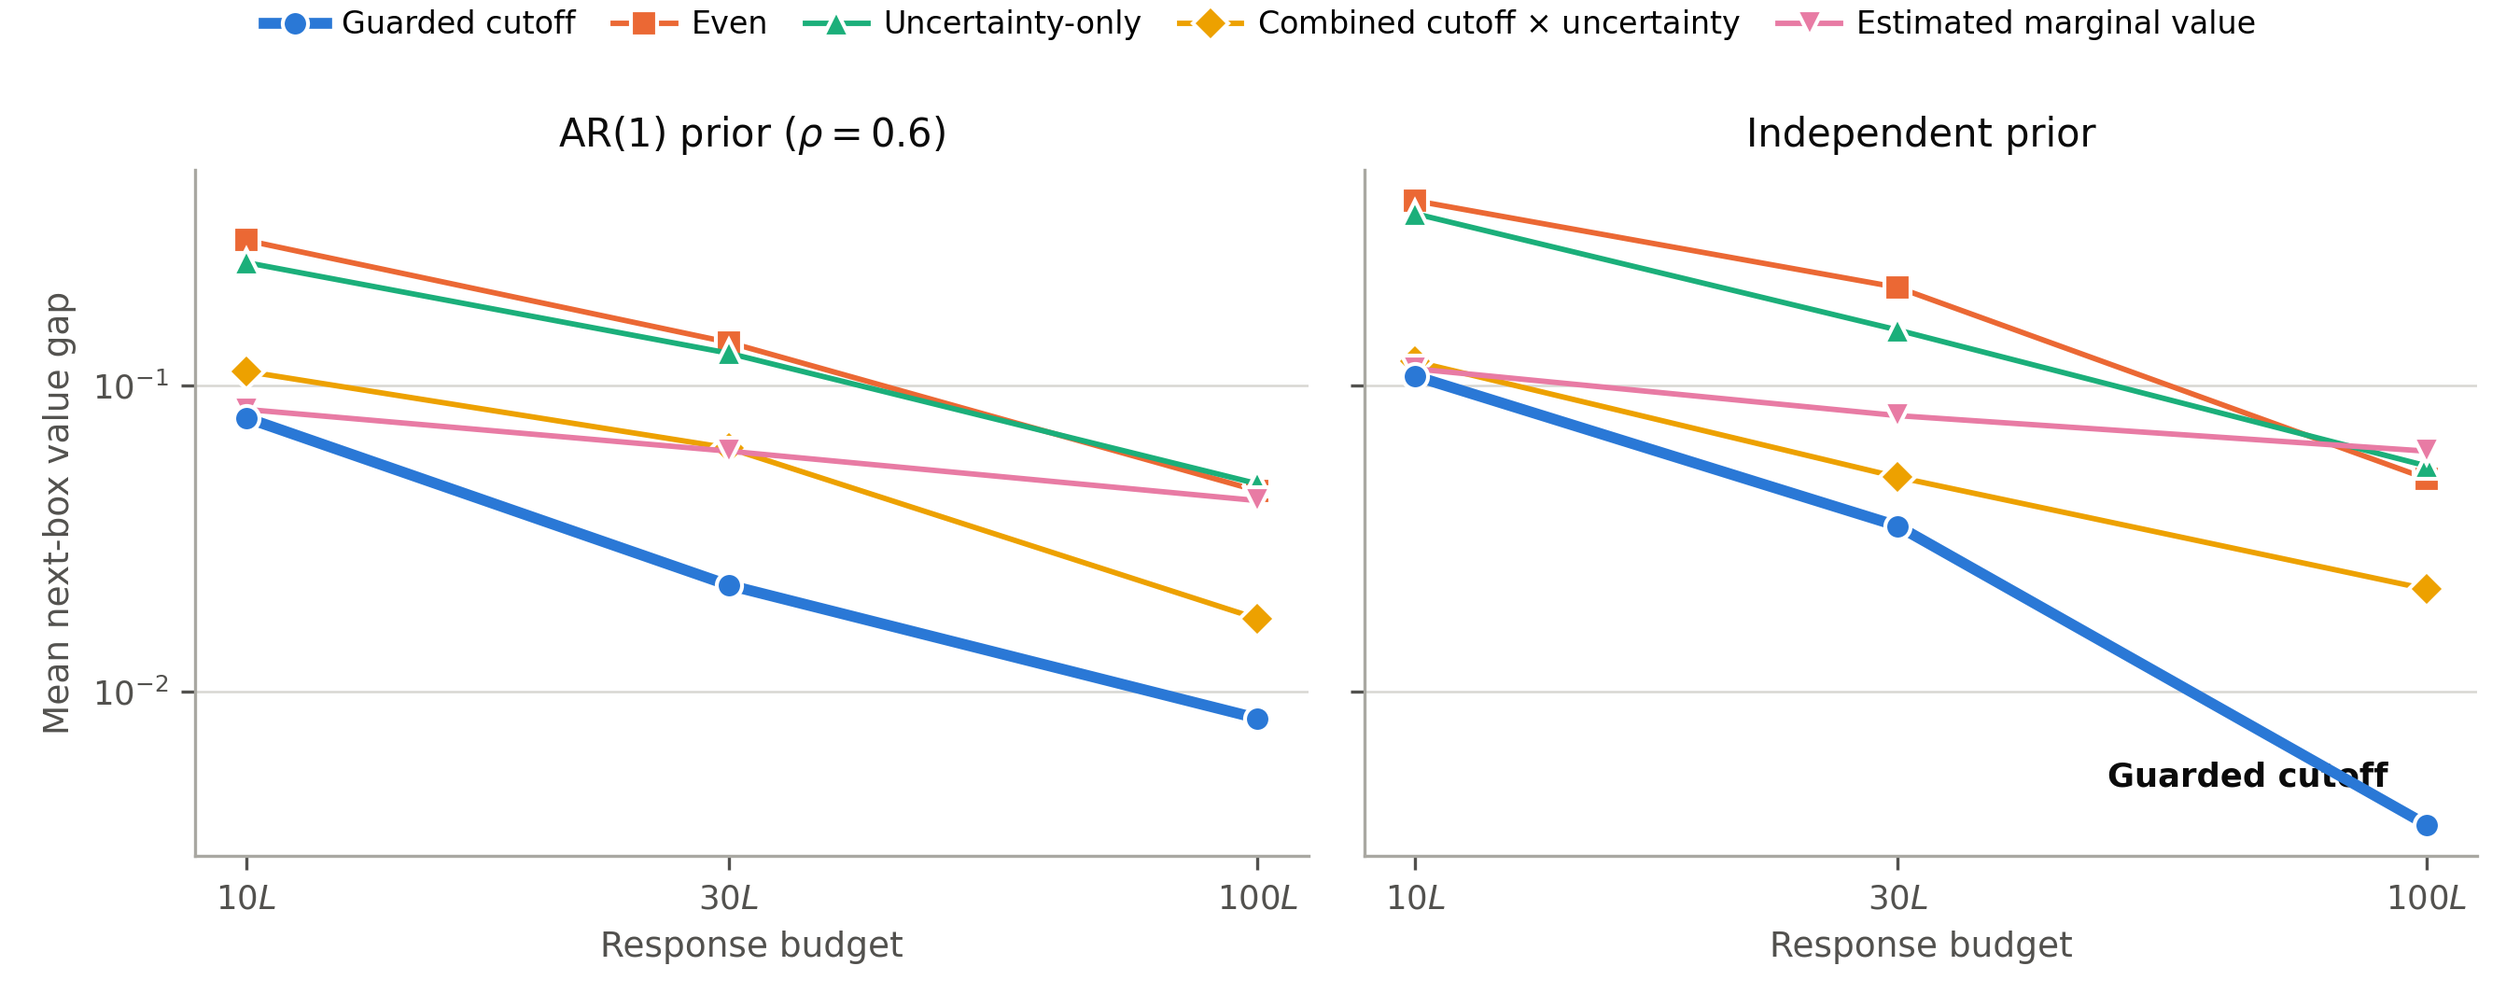
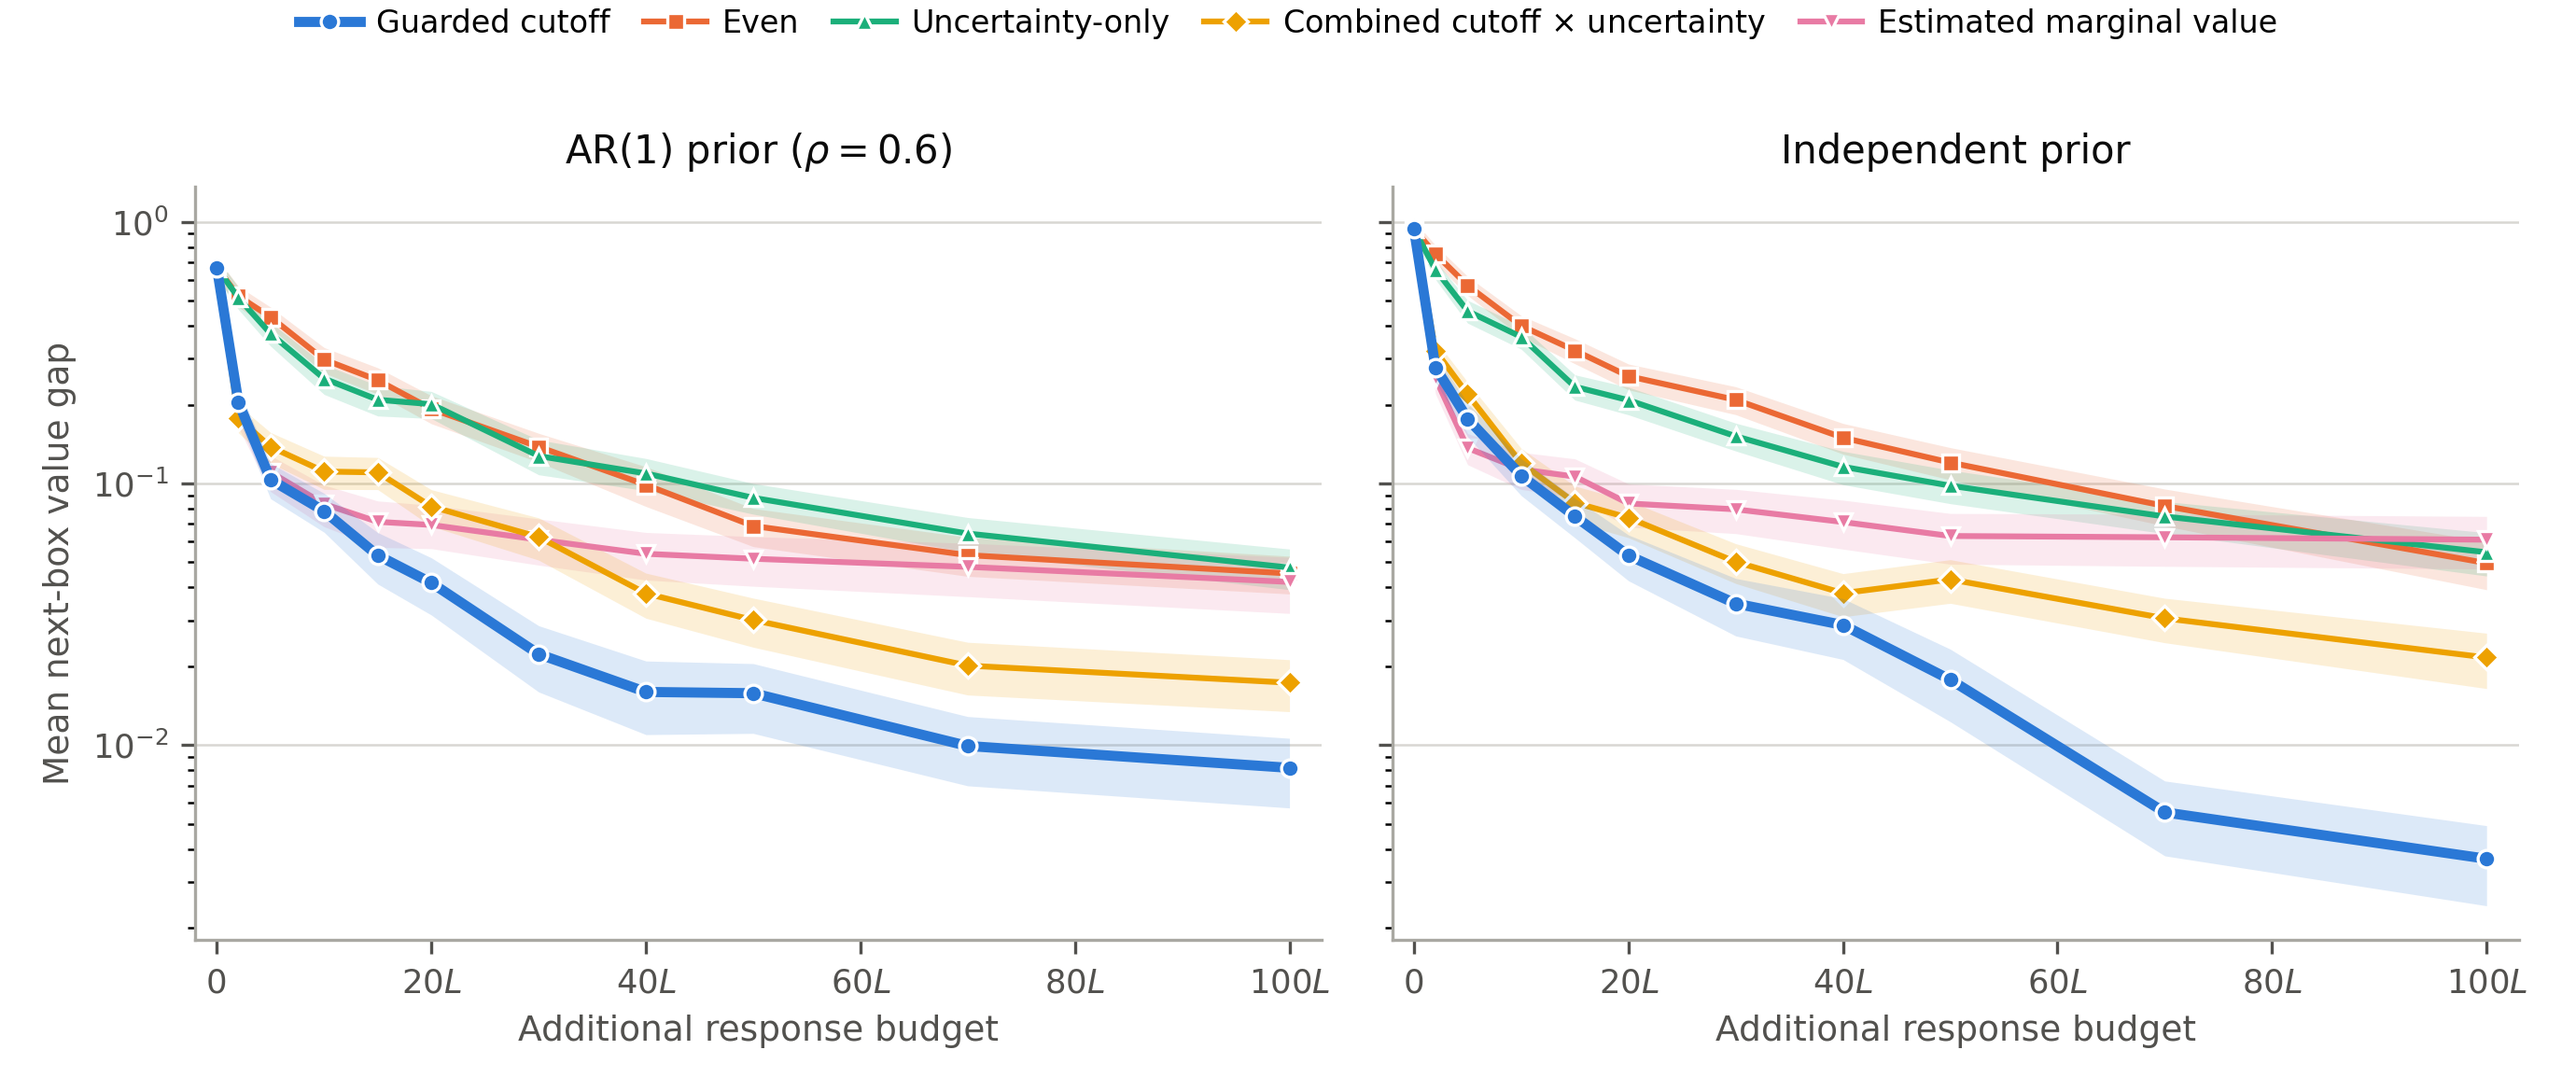
Dense-checkpoint policy gap figure with standard-error bands

diff --git a/policy_gap_figure.py b/policy_gap_figure.py
@@ -1,15 +1,15 @@
 #!/usr/bin/env python3
-"""Render the main-allocation policy comparison figure (Figure 2).
+"""Render the main-allocation policy comparison figure (Section 7.2).
 
-Reads synthetic_allocation_summary.csv and plots mean next-box value gaps
-by policy and budget, one panel per prior. Deterministic; no simulation.
+Reads a dense-checkpoint summary from synthetic_allocation_benchmarks.py
+(budget multiples 0,2,5,...,100) and plots mean next-box value gaps with
+one-standard-error bands, one panel per prior. Deterministic; no simulation.
 """
 
 from __future__ import annotations
 
 import argparse
 import csv
-from pathlib import Path
 
 import matplotlib
 
@@ -17,12 +17,12 @@ matplotlib.use("Agg")
 import matplotlib.pyplot as plt
 
 SERIES = [
-    # (csv column, label, hex, marker, linewidth, zorder)
-    ("cutoff_mean", "Guarded cutoff", "#2a78d6", "o", 2.8, 5),
-    ("even_mean", "Even", "#eb6834", "s", 1.4, 3),
-    ("uncertainty_mean", "Uncertainty-only", "#1baf7a", "^", 1.4, 3),
-    ("combined_mean", "Combined cutoff $\\times$ uncertainty", "#eda100", "D", 1.4, 3),
-    ("local_marginal_mean", "Estimated marginal value", "#e87ba4", "v", 1.4, 3),
+    # (csv stem, label, hex, marker, linewidth, zorder)
+    ("cutoff", "Guarded cutoff", "#2a78d6", "o", 2.6, 6),
+    ("even", "Even", "#eb6834", "s", 1.5, 3),
+    ("uncertainty", "Uncertainty-only", "#1baf7a", "^", 1.5, 3),
+    ("combined", "Combined cutoff $\\times$ uncertainty", "#eda100", "D", 1.5, 4),
+    ("local_marginal", "Estimated marginal value", "#e87ba4", "v", 1.5, 3),
 ]
 TEXT_PRIMARY = "#0b0b0b"
 TEXT_SECONDARY = "#52514e"
@@ -30,8 +30,9 @@ TEXT_SECONDARY = "#52514e"
 
 def main() -> None:
     parser = argparse.ArgumentParser(description=__doc__)
-    parser.add_argument("--input", default="synthetic_allocation_summary.csv")
+    parser.add_argument("--input", default="synthetic_allocation_dense.csv")
     parser.add_argument("--output", default="policy_gap_comparison.png")
+    parser.add_argument("--catalog-size", type=int, default=60)
     args = parser.parse_args()
 
     rows = list(csv.DictReader(open(args.input)))
@@ -40,25 +41,30 @@ def main() -> None:
         if r["prior"] not in priors:
             priors.append(r["prior"])
 
-    fig, axes = plt.subplots(1, 2, figsize=(9.0, 3.6), sharey=True)
+    fig, axes = plt.subplots(1, 2, figsize=(9.2, 3.9), sharey=True)
     titles = {priors[0]: "AR(1) prior ($\\rho=0.6$)", priors[1]: "Independent prior"}
     for ax, prior in zip(axes, priors):
-        sub = [r for r in rows if r["prior"] == prior]
-        budgets = [int(r["budget"]) / 60 for r in sub]
-        for col, label, hexc, marker, lw, z in SERIES:
-            vals = [float(r[col]) for r in sub]
+        sub = sorted(
+            (r for r in rows if r["prior"] == prior), key=lambda r: int(r["budget"])
+        )
+        budgets = [int(r["budget"]) / args.catalog_size for r in sub]
+        for stem, label, hexc, marker, lw, z in SERIES:
+            mean = [float(r[f"{stem}_mean"]) for r in sub]
+            se = [float(r[f"{stem}_se"]) for r in sub]
+            lo = [m - s for m, s in zip(mean, se)]
+            hi = [m + s for m, s in zip(mean, se)]
+            ax.fill_between(budgets, lo, hi, color=hexc, alpha=0.16, linewidth=0, zorder=z - 1)
             ax.plot(
-                budgets, vals, marker=marker, color=hexc, linewidth=lw,
-                markersize=6.5, zorder=z, label=label,
-                markeredgecolor="white", markeredgewidth=1.0,
+                budgets, mean, marker=marker, color=hexc, linewidth=lw,
+                markersize=4.5, zorder=z, label=label,
+                markeredgecolor="white", markeredgewidth=0.8,
             )
-        ax.set_xscale("log")
         ax.set_yscale("log")
-        ax.set_xticks([10, 30, 100])
-        ax.set_xticklabels(["$10L$", "$30L$", "$100L$"])
-        ax.minorticks_off()
+        ax.set_xlim(-2, 103)
+        ax.set_xticks([0, 20, 40, 60, 80, 100])
+        ax.set_xticklabels(["0", "$20L$", "$40L$", "$60L$", "$80L$", "$100L$"])
         ax.set_title(titles[prior], fontsize=10, color=TEXT_PRIMARY)
-        ax.set_xlabel("Response budget", fontsize=9, color=TEXT_SECONDARY)
+        ax.set_xlabel("Additional response budget", fontsize=9, color=TEXT_SECONDARY)
         ax.grid(True, which="major", axis="y", color="#d8d7d2", linewidth=0.6)
         ax.set_axisbelow(True)
         for spine in ("top", "right"):
@@ -68,23 +74,13 @@ def main() -> None:
         ax.tick_params(colors=TEXT_SECONDARY, labelsize=8.5)
     axes[0].set_ylabel("Mean next-box value gap", fontsize=9, color=TEXT_SECONDARY)
 
-    # direct label for the protagonist on the right panel
-    sub = [r for r in rows if r["prior"] == priors[1]]
-    gx = int(sub[-1]["budget"]) / 60
-    gy = float(sub[-1]["cutoff_mean"])
-    axes[1].annotate(
-        "Guarded cutoff", xy=(gx, gy), xytext=(-10, 10),
-        textcoords="offset points", ha="right", fontsize=8.5,
-        color=TEXT_PRIMARY, fontweight="bold",
-    )
-
     handles, labels = axes[0].get_legend_handles_labels()
     fig.legend(
         handles, labels, loc="upper center", bbox_to_anchor=(0.5, 1.02),
-        ncol=5, frameon=False, fontsize=8, columnspacing=1.2,
+        ncol=5, frameon=False, fontsize=8, columnspacing=1.1,
         handletextpad=0.5,
     )
-    fig.tight_layout(rect=(0, 0, 1, 0.93))
+    fig.tight_layout(rect=(0, 0, 1, 0.92))
     fig.savefig(args.output, dpi=300, facecolor="white")
     print(f"wrote {args.output}")
 

diff --git a/synthetic_allocation_benchmarks.py b/synthetic_allocation_benchmarks.py
@@ -48,6 +48,11 @@ def parse_args() -> argparse.Namespace:
         default="synthetic_allocation_raw.csv",
         help="CSV path for one row per prior/world/budget/policy.",
     )
+    parser.add_argument(
+        "--budget-multiples",
+        default="10,30,100",
+        help="Comma-separated budget checkpoints in multiples of L; 0 records the warm-start baseline.",
+    )
     return parser.parse_args()
 
 
@@ -208,6 +213,9 @@ def run_world(
         policy_rng = np.random.default_rng(int(rng.integers(0, 2**32 - 1)))
 
         checkpoints: list[float] = []
+        if 0 in budget_set:
+            chosen = np.argpartition(mean, -k)[-k:]
+            checkpoints.append(oracle_sum - float(w_true[chosen].sum()))
         for step in range(1, max_budget + 1):
             item = choose_item(policy, mean, cov, counts, kappas, obs_var, k, policy_rng)
             y = w_true[item] + policy_rng.normal(0.0, math.sqrt(obs_var[item]))
@@ -237,7 +245,7 @@ def scalar_se(values: np.ndarray) -> float:
 
 def main() -> None:
     args = parse_args()
-    budgets = [10 * args.L, 30 * args.L, 100 * args.L]
+    budgets = [int(round(float(m) * args.L)) for m in args.budget_multiples.split(",")]
     gh_x, gh_w = np.polynomial.hermite.hermgauss(31)
     output_path = Path(args.output)
     raw_output_path = Path(args.raw_output)

diff --git a/retention.tex b/retention.tex
@@ -1381,9 +1381,10 @@ Independent ($\bSigma{=}I$) & $100L$  & $0.050\,(0.010)$ & $0.055\,(0.010)$ & $0
 \centering
 \includegraphics[width=\textwidth]{policy_gap_comparison.png}
 \caption{Mean next-box value gaps by policy and response budget (log
-scales; lower is better). The guarded cutoff rule attains the lowest
-gap at every budget under both priors. Standard errors are in
-Table~\ref{tab:alloc-efficacy}.}
+vertical scale; lower is better). Budget \(0\) is the shared
+five-response warm start, and shaded bands are one standard error over
+the \(100\) worlds. The guarded cutoff rule attains the lowest gap at
+every budget under both priors.}
 \label{fig:policy-gaps}
 \end{figure}
 

diff --git a/REPRODUCIBILITY.md b/REPRODUCIBILITY.md
@@ -110,10 +110,18 @@ Deterministic illustration (one synthetic catalog); not an experiment.
 Paper location: Section 7.2, Figure of mean gaps by policy and budget.
 
 ```
-python3 policy_gap_figure.py --input synthetic_allocation_summary.csv --output policy_gap_comparison.png
+python3 synthetic_allocation_benchmarks.py \
+  --worlds 100 \
+  --seed 20260406 \
+  --budget-multiples "0,2,5,10,15,20,30,40,50,70,100" \
+  --output synthetic_allocation_dense.csv \
+  --raw-output synthetic_allocation_dense_raw.csv
+python3 policy_gap_figure.py --input synthetic_allocation_dense.csv --output policy_gap_comparison.png
 ```
 
-Deterministic rendering of the published summary CSV; not an experiment.
+The dense run shares the world stream of the main benchmark, so its
+10L/30L/100L checkpoints reproduce `synthetic_allocation_summary.csv`
+exactly; the figure script is a deterministic rendering of the dense CSV.
 
 ## Guard Ablation for the Cutoff Rule
 
